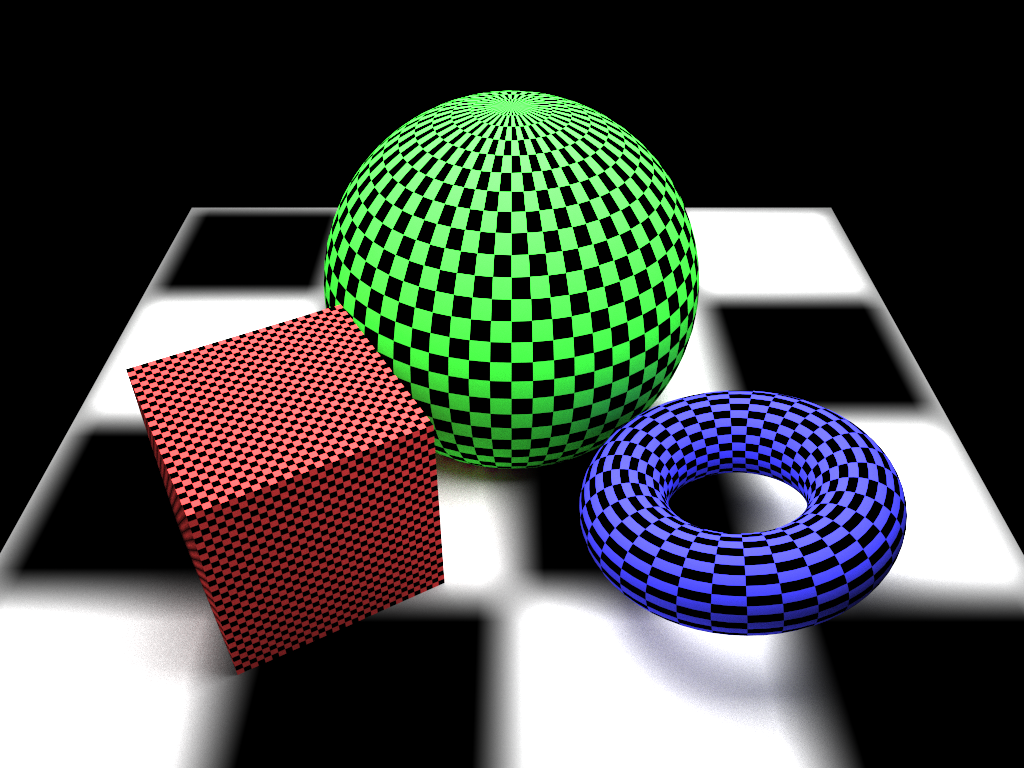
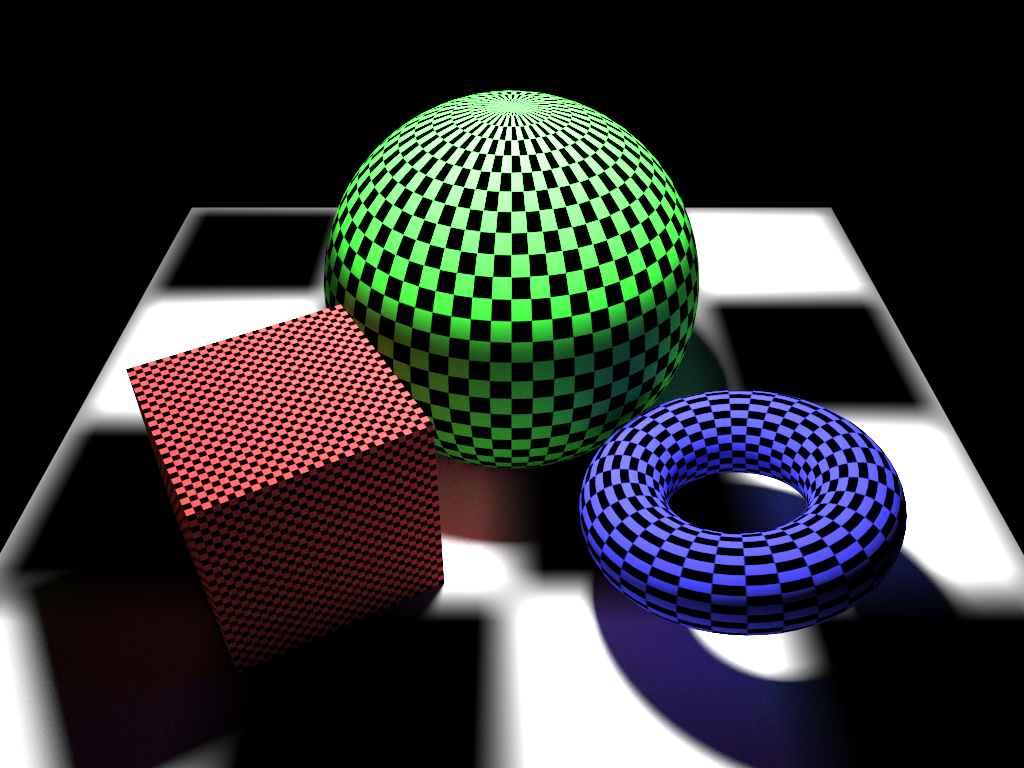
fix displacement tests

diff --git a/main/tests_mtl3.cpp b/main/tests_mtl3.cpp
@@ -1447,9 +1447,9 @@ bool MTL_TESTS::test_154_baked_checker_precomp()
   /////////////////////////////////////////////////////////////////////////////////////////////////////////////////////////////////////////////////////
   // Meshes
   /////////////////////////////////////////////////////////////////////////////////////////////////////////////////////////////////////////////////////
-  HRMeshRef cubeR = HRMeshFromSimpleMesh(L"cubeR", CreateCube(2.0f), matR.id);
-  HRMeshRef sphereG = HRMeshFromSimpleMesh(L"sphereG", CreateSphere(4.0f, 64), matG.id);
-  HRMeshRef torusB = HRMeshFromSimpleMesh(L"torusB", CreateTorus(0.8f, 2.0f, 64, 64), matB.id);
+  HRMeshRef cubeR    = HRMeshFromSimpleMesh(L"cubeR", CreateCube(2.0f), matR.id);
+  HRMeshRef sphereG  = HRMeshFromSimpleMesh(L"sphereG", CreateSphere(4.0f, 64), matG.id);
+  HRMeshRef torusB   = HRMeshFromSimpleMesh(L"torusB", CreateTorus(0.8f, 2.0f, 64, 64), matB.id);
   HRMeshRef planeRef = HRMeshFromSimpleMesh(L"my_plane", CreatePlane(10.0f), matGray.id);
 
   /////////////////////////////////////////////////////////////////////////////////////////////////////////////////////////////////////////////////////
@@ -1468,13 +1468,13 @@ bool MTL_TESTS::test_154_baked_checker_precomp()
 
     auto sizeNode = lightNode.append_child(L"size");
 
-    sizeNode.append_attribute(L"half_length").set_value(L"8.0");
-    sizeNode.append_attribute(L"half_width").set_value(L"8.0");
+    sizeNode.append_attribute(L"half_length") = 1.0f;
+    sizeNode.append_attribute(L"half_width")  = 1.0f;
 
     auto intensityNode = lightNode.append_child(L"intensity");
 
-    intensityNode.append_child(L"color").append_attribute(L"val").set_value(L"1 1 1");
-    intensityNode.append_child(L"multiplier").append_attribute(L"val").set_value(L"4.0");
+    intensityNode.append_child(L"color").append_attribute(L"val")      = L"1 1 1";
+    intensityNode.append_child(L"multiplier").append_attribute(L"val") = 200.0f;
     VERIFY_XML(lightNode);
   }
   hrLightClose(rectLight);
@@ -1506,7 +1506,7 @@ bool MTL_TESTS::test_154_baked_checker_precomp()
   int w = 1024;
   int h = 768;
 
-  HRRenderRef renderRef = CreateBasicTestRenderPT(CURR_RENDER_DEVICE, w, h, 256, 1024);
+  HRRenderRef renderRef = CreateBasicTestRenderPT(CURR_RENDER_DEVICE, w, h, 256, 2048);
 
   hrRenderOpen(renderRef, HR_OPEN_EXISTING);
   auto node = hrRenderParamNode(renderRef);
@@ -1591,23 +1591,16 @@ bool MTL_TESTS::test_154_baked_checker_precomp()
   hrSceneClose(scnRef);
 
   hrFlush(scnRef, renderRef);
-
-  glViewport(0, 0, w, h);
-  std::vector<int32_t> image(w * h);
+  
 
   while (true)
   {
     std::this_thread::sleep_for(std::chrono::milliseconds(500));
-
     HRRenderUpdateInfo info = hrRenderHaveUpdate(renderRef);
 
     if (info.haveUpdateFB)
     {
-      hrRenderGetFrameBufferLDR1i(renderRef, w, h, &image[0]);
-
-      glDisable(GL_TEXTURE_2D);
-      glDrawPixels(w, h, GL_RGBA, GL_UNSIGNED_BYTE, &image[0]);
-
+      
       auto pres = std::cout.precision(2);
       std::cout << "rendering progress = " << info.progress << "% \r";
       std::cout.precision(pres);
@@ -1778,9 +1771,9 @@ bool MTL_TESTS::test_155_baked_checker_HDR_precomp()
   /////////////////////////////////////////////////////////////////////////////////////////////////////////////////////////////////////////////////////
   // Meshes
   /////////////////////////////////////////////////////////////////////////////////////////////////////////////////////////////////////////////////////
-  HRMeshRef cubeR = HRMeshFromSimpleMesh(L"cubeR", CreateCube(2.0f), matR.id);
-  HRMeshRef sphereG = HRMeshFromSimpleMesh(L"sphereG", CreateSphere(4.0f, 64), matG.id);
-  HRMeshRef torusB = HRMeshFromSimpleMesh(L"torusB", CreateTorus(0.8f, 2.0f, 64, 64), matB.id);
+  HRMeshRef cubeR    = HRMeshFromSimpleMesh(L"cubeR",    CreateCube(2.0f), matR.id);
+  HRMeshRef sphereG  = HRMeshFromSimpleMesh(L"sphereG",  CreateSphere(4.0f, 64), matG.id);
+  HRMeshRef torusB   = HRMeshFromSimpleMesh(L"torusB",   CreateTorus(0.8f, 2.0f, 64, 64), matB.id);
   HRMeshRef planeRef = HRMeshFromSimpleMesh(L"my_plane", CreatePlane(10.0f), matGray.id);
 
   /////////////////////////////////////////////////////////////////////////////////////////////////////////////////////////////////////////////////////
@@ -1799,13 +1792,13 @@ bool MTL_TESTS::test_155_baked_checker_HDR_precomp()
 
     auto sizeNode = lightNode.append_child(L"size");
 
-    sizeNode.append_attribute(L"half_length").set_value(L"2.0");
-    sizeNode.append_attribute(L"half_width").set_value(L"2.0");
+    sizeNode.append_attribute(L"half_length") = 1;
+    sizeNode.append_attribute(L"half_width")  = 1;
 
     auto intensityNode = lightNode.append_child(L"intensity");
 
-    intensityNode.append_child(L"color").append_attribute(L"val").set_value(L"1 1 1");
-    intensityNode.append_child(L"multiplier").append_attribute(L"val").set_value(L"16.0");
+    intensityNode.append_child(L"color").append_attribute(L"val")      = L"1 1 1";
+    intensityNode.append_child(L"multiplier").append_attribute(L"val") = 64.0f;
     VERIFY_XML(lightNode);
   }
   hrLightClose(rectLight);

diff --git a/hydra_api/HydraAPI_GeomProcessing.cpp b/hydra_api/HydraAPI_GeomProcessing.cpp
@@ -1245,41 +1245,42 @@ void doDisplacement(HRMesh *pMesh, const pugi::xml_node &displaceXMLNode, std::v
 //   }
 // }
 //
-// void InsertFixedMeshesAndInstancesXML(pugi::xml_document &stateToProcess,
-//                                       std::unordered_map<uint32_t, int32_t> &instToFixedMesh, int32_t sceneId)
-// {
-//   auto geolib = stateToProcess.child(L"geometry_lib");
-//   std::vector <std::pair<int, pugi::xml_node> > tmp_nodes;
-//
-//   if (geolib != nullptr)
-//   {
-//     for (auto& meshMap : instToFixedMesh)
-//     {
-//       auto geoLib_ch = g_objManager.scnData.m_geometryLibChanges;
-//
-//       auto mesh_node = geoLib_ch.find_child_by_attribute(L"id", std::to_wstring(meshMap.second).c_str());
-//       std::pair<int, pugi::xml_node> p(meshMap.second, mesh_node);
-//       tmp_nodes.push_back(p);
-//
-//       auto sceneNode = stateToProcess.child(L"scenes").find_child_by_attribute(L"scene", L"id", std::to_wstring(sceneId).c_str());
-//       if (sceneNode != nullptr)
-//       {
-//         auto node = sceneNode.find_child_by_attribute(L"instance", L"id", std::to_wstring(meshMap.first).c_str());
-//         if(node != nullptr)
-//         {
-//           node.attribute(L"mesh_id").set_value(meshMap.second);
-//         }
-//       }
-//     }
-//   }
-//
-//
-//   std::sort(tmp_nodes.begin(), tmp_nodes.end(),
-//           [&](auto a, auto b) { return a.first < b.first; });
-//
-//   for (auto& node : tmp_nodes)
-//     geolib.append_copy(node.second);
-// }
+
+void InsertFixedMeshesAndInstancesXML(pugi::xml_document &stateToProcess,
+                                      std::unordered_map<uint32_t, int32_t> &instToFixedMesh, int32_t sceneId)
+{
+  auto geolib = stateToProcess.child(L"geometry_lib");
+  std::vector <std::pair<int, pugi::xml_node> > tmp_nodes;
+  if (geolib != nullptr)
+  {
+    for (auto& meshMap : instToFixedMesh)
+    {
+      //auto geoLib_ch = g_objManager.scnData.m_geometryLibChanges;
+      //auto mesh_node = geoLib_ch.find_child_by_attribute(L"id", std::to_wstring(meshMap.second).c_str());
+      if(meshMap.second < 0 || meshMap.second >= g_objManager.scnData.meshes.size())
+        continue;
+      
+      auto mesh_node = g_objManager.scnData.meshes[meshMap.second].xml_node();
+      
+      std::pair<int, pugi::xml_node> p(meshMap.second, mesh_node);
+      tmp_nodes.push_back(p);
+      auto sceneNode = stateToProcess.child(L"scenes").find_child_by_attribute(L"scene", L"id", std::to_wstring(sceneId).c_str());
+      if (sceneNode != nullptr)
+      {
+        auto node = sceneNode.find_child_by_attribute(L"instance", L"id", std::to_wstring(meshMap.first).c_str());
+        if(node != nullptr)
+        {
+          node.attribute(L"mesh_id").set_value(meshMap.second);
+        }
+      }
+    }
+  }
+  std::sort(tmp_nodes.begin(), tmp_nodes.end(),
+            [&](auto a, auto b) { return a.first < b.first; });
+  
+  for (auto& node : tmp_nodes)
+    geolib.append_copy(node.second);
+}
 
 
 /*
@@ -1508,7 +1509,7 @@ std::wstring HR_PreprocessMeshes(const wchar_t *state_path)
 
     if(anyChanges)
     {
-      //InsertFixedMeshesAndInstancesXML(stateToProcess, instToFixedMesh, g_objManager.m_currSceneId); //#TODO: #ALERT: displacement fixes !!!
+      InsertFixedMeshesAndInstancesXML(stateToProcess, instToFixedMesh, g_objManager.m_currSceneId);
       removeDisplacementFromMaterials(stateToProcess, displacementMatIDs);
     }
   }

diff --git a/main/main.cpp b/main/main.cpp
@@ -175,18 +175,18 @@ int main(int argc, const char** argv)
     
     //run_all_api_tests(); // passed
     //run_all_geo_tests();
-    //run_all_mtl_tests();
+    //run_all_mtl_tests(53);
     //run_all_lgt_tests();
 	  //run_all_alg_tests();
 	  //run_all_ipp_tests();
   
 	  //std::cout << MTL_TESTS::test_154_baked_checker_precomp()        << std::endl;
-    //std::cout << MTL_TESTS::test_155_baked_checker_HDR_precomp()    << std::endl;
+    std::cout << MTL_TESTS::test_155_baked_checker_HDR_precomp()    << std::endl;
     //std::cout << MTL_TESTS::test_156_baked_checker_precomp_update() << std::endl;
     //std::cout << MTL_TESTS::test_157_baked_checker_precomp_remap()  << std::endl;
     
     //std::cout << MTL_TESTS::test_163_diffuse_texture_recommended_res() << std::endl;
-    std::cout << MTL_TESTS::test_168_diffuse_texture_recommended_res2() << std::endl;
+    //std::cout << MTL_TESTS::test_168_diffuse_texture_recommended_res2() << std::endl;
     
     //std::cout << test44_four_lights_and_compressed_mesh() << std::endl;
     

diff --git a/main/tests1.cpp b/main/tests1.cpp
@@ -1611,7 +1611,7 @@ void run_all_api_tests(const int startTestId)
                        &test39_mmlt_or_ibpt,
                        &test40_several_changes,
                        &test41_load_library_basic,
-                       &dummy_test,
+                       &test42_load_mesh_compressed,
                        &test43_test_direct_light,
                        &test44_four_lights_and_compressed_mesh,
                        &test45_mesh_from_vsgf_opengl_bug_teapot,
